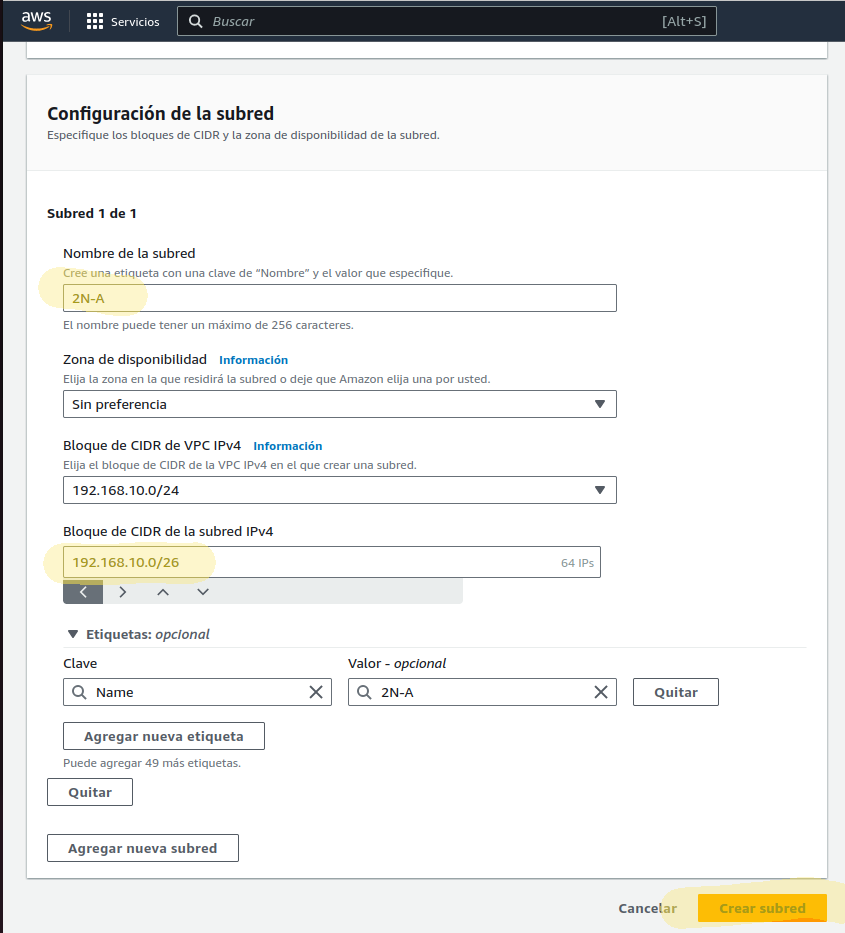
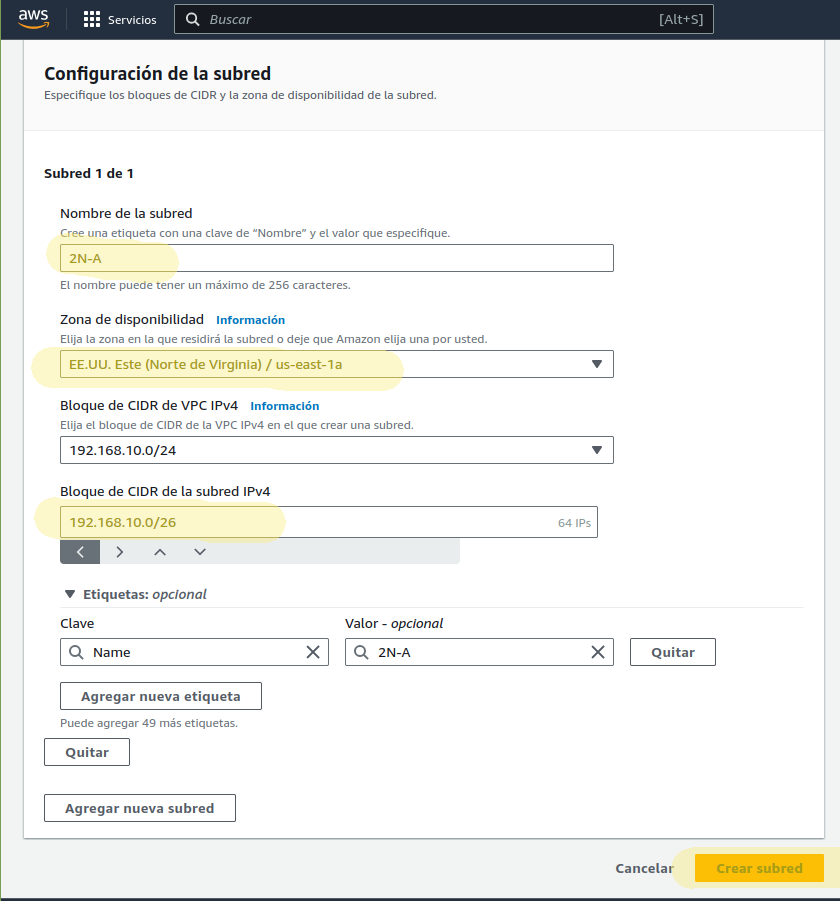
VPC Final

Changed region(s): [[0.0, 0.0, 1.0, 1.0], [0.681, 0.404, 0.7429, 0.4351]]

diff --git a/AWS/vpc.md b/AWS/vpc.md
@@ -118,13 +118,13 @@ En el nuevo panel, seleccionamos arriba a la derecha `Crear subred`.
 
 ![](./assets/subred_crear.png)
 
-Aquí elegimos nuestro **VPC** y pulsamos `Crear subred`.
+Aquí elegimos nuestra **VPC** y pulsamos `Crear subred`.
 
 Se abre nuevos campos.
 
 ![](./assets/subred_crear2.png)
 
-Aquí simplemente le damos un nombre a nuestra `subred` y configuramos la subred, según la tabla anterior.
+Aquí simplemente le damos un nombre a nuestra `subred`, elegimos una `Zona de disponibilidad` y configuramos la subred, según la tabla anterior.
 
 Repetir estos pasos para las subredes: `2N-B`, `2N-C` y `2N-D`.
 
@@ -170,6 +170,6 @@ Si pulsamos sobre la `VPC` creada, nos saldrá un resumen como el que se muestra
 
 En la parte inferior, se puede ver un mapa de las conexiones.
 
-**Nos falta simplemente modificar el DNS**
+
 
 
